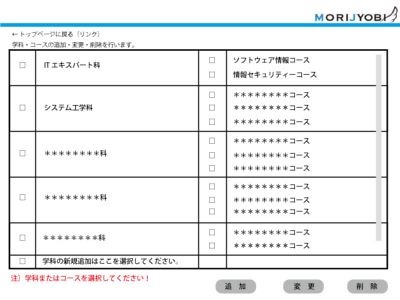
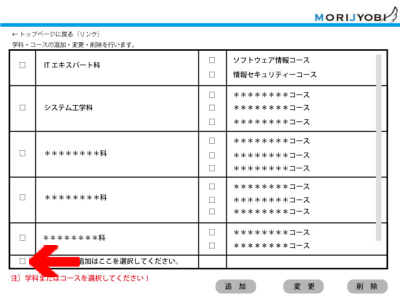
change

Changed region(s): [[0.06, 0.81, 0.21, 0.93]]

diff --git a/documents/sources/user_manual/user_manual.md b/documents/sources/user_manual/user_manual.md
@@ -52,9 +52,13 @@ __「設定」画面について説明するでござる__
 
 ![mannage_img](/img/manage_img.png)  
 
+#### 3-2 学科を追加・変更する場合
+- __新規に追加する場合__  
+__「赤い」__
+矢印のところに目印を付け追加を押すでござる  
+- __変更をする場合__  
 
-
-#### 3-2 学科を追加する場合
+#### 3-3 学科を削除する場合
 
 ### 4-1 「登録」画面について  
 __「登録」画面について説明するでござる__
